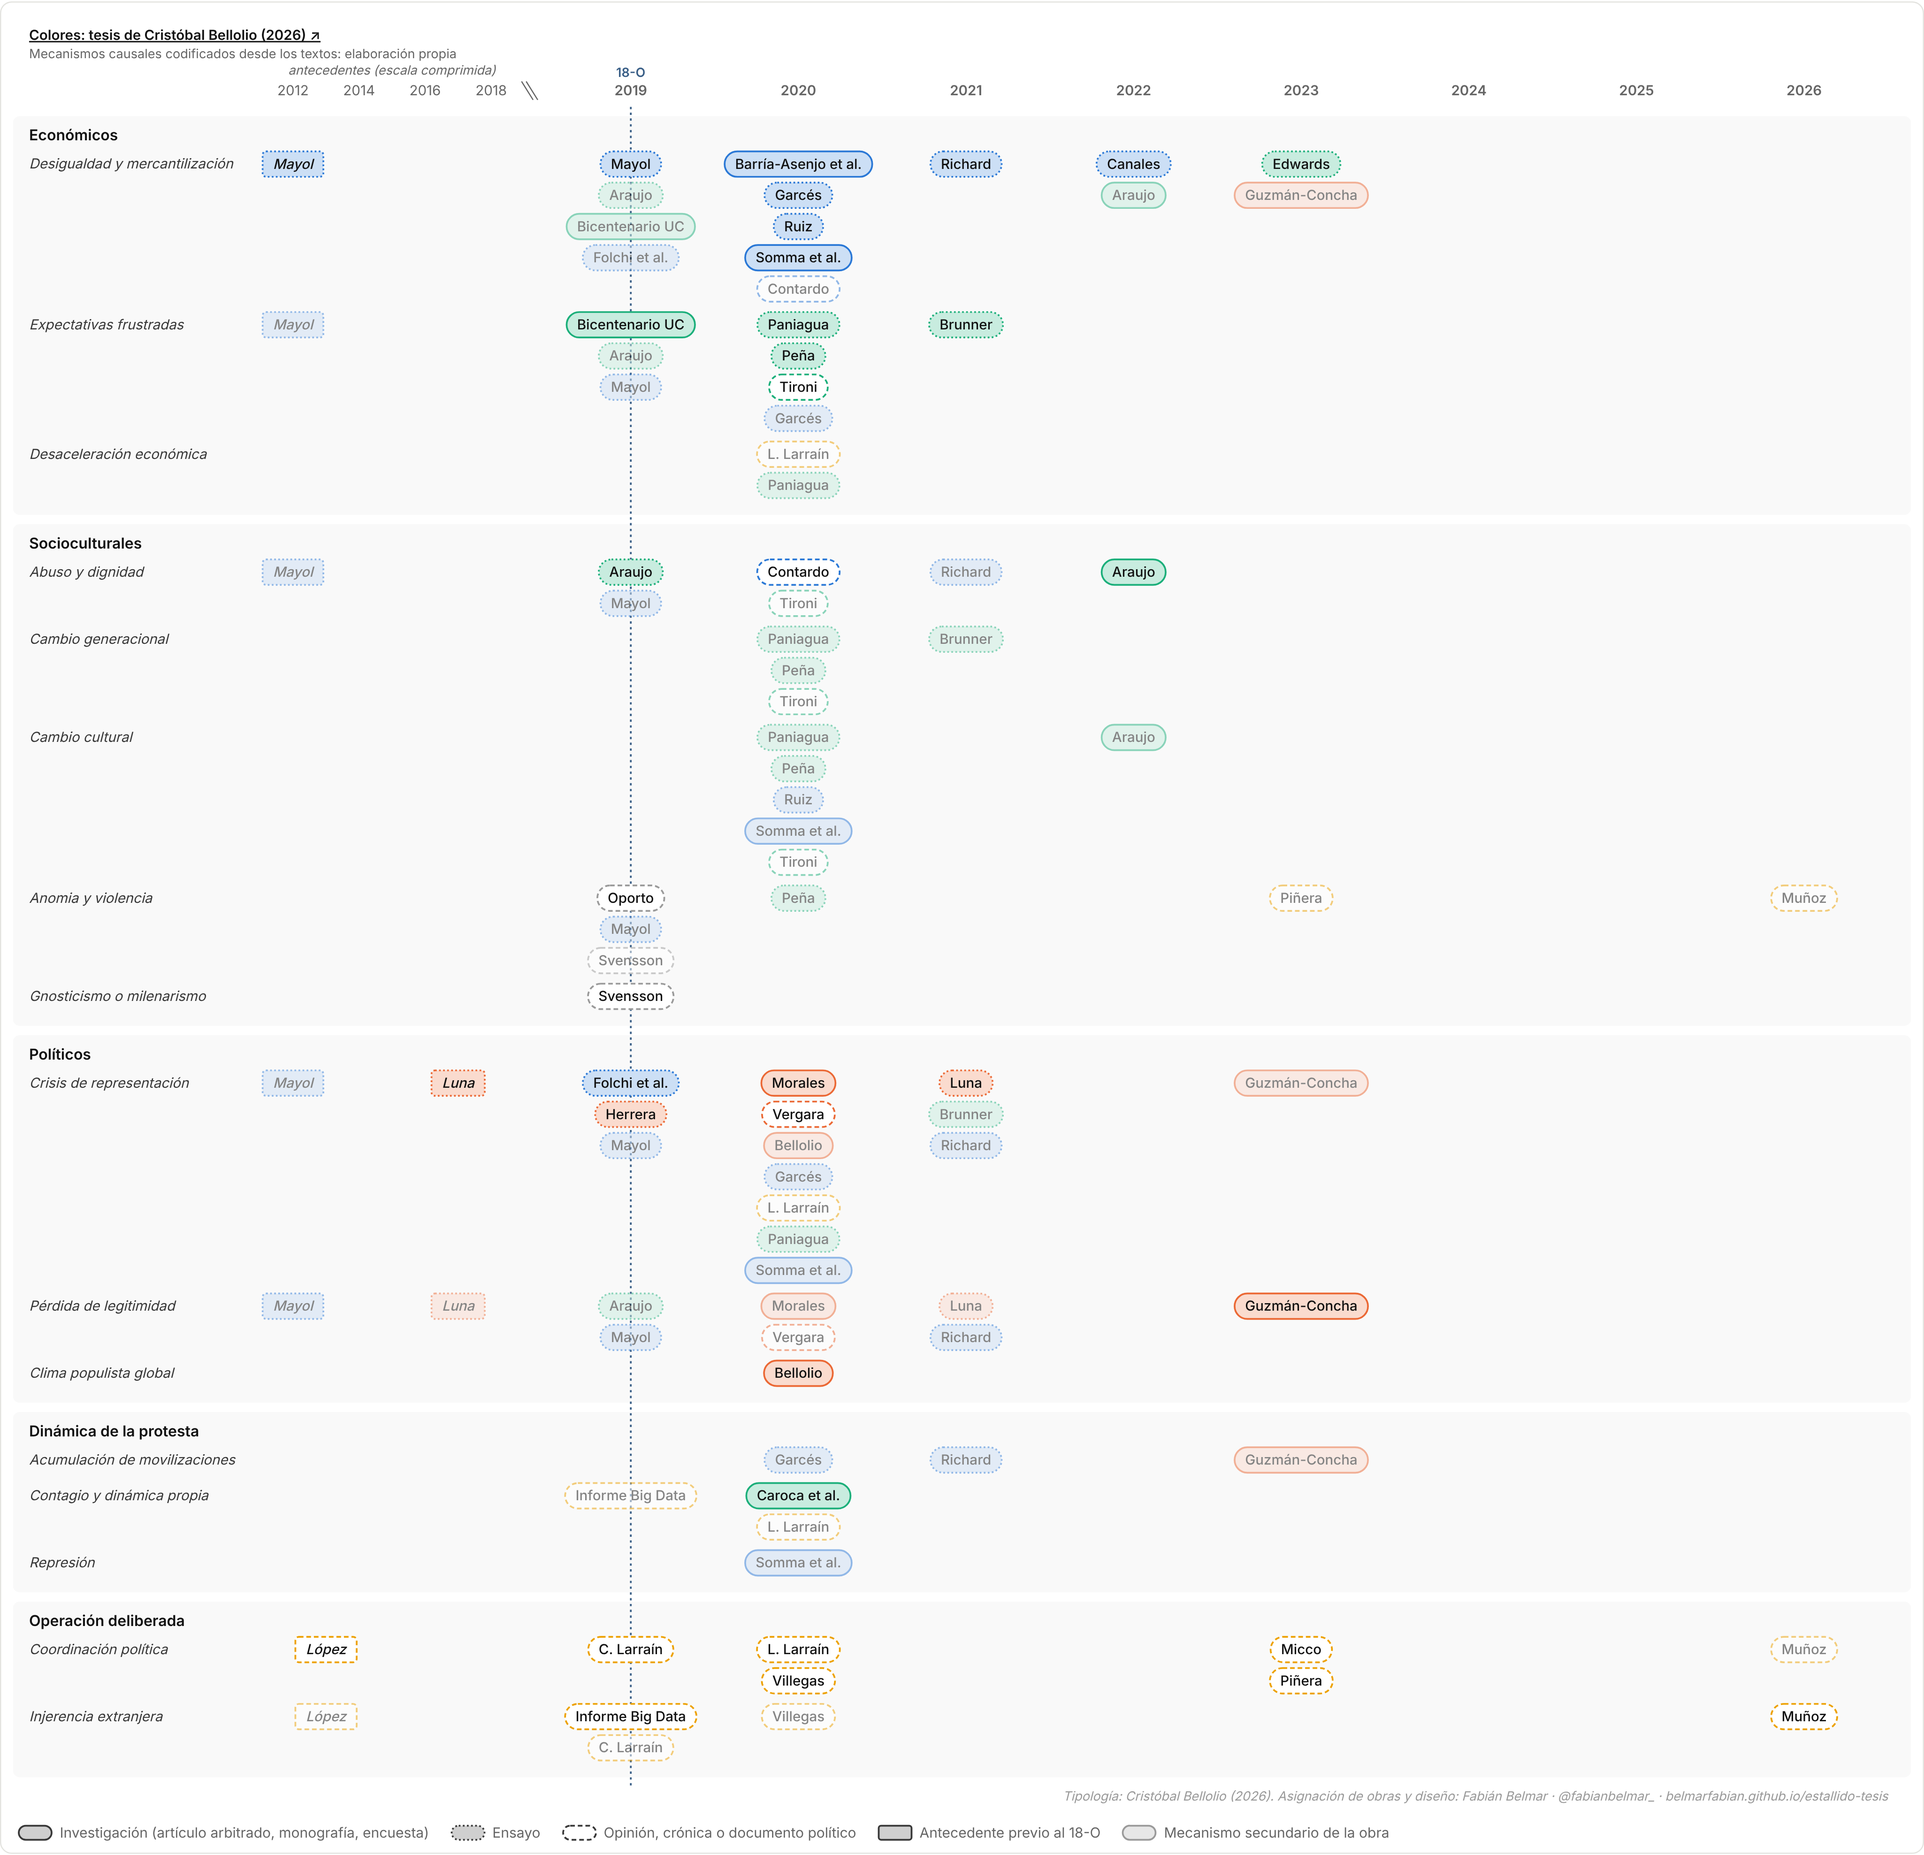
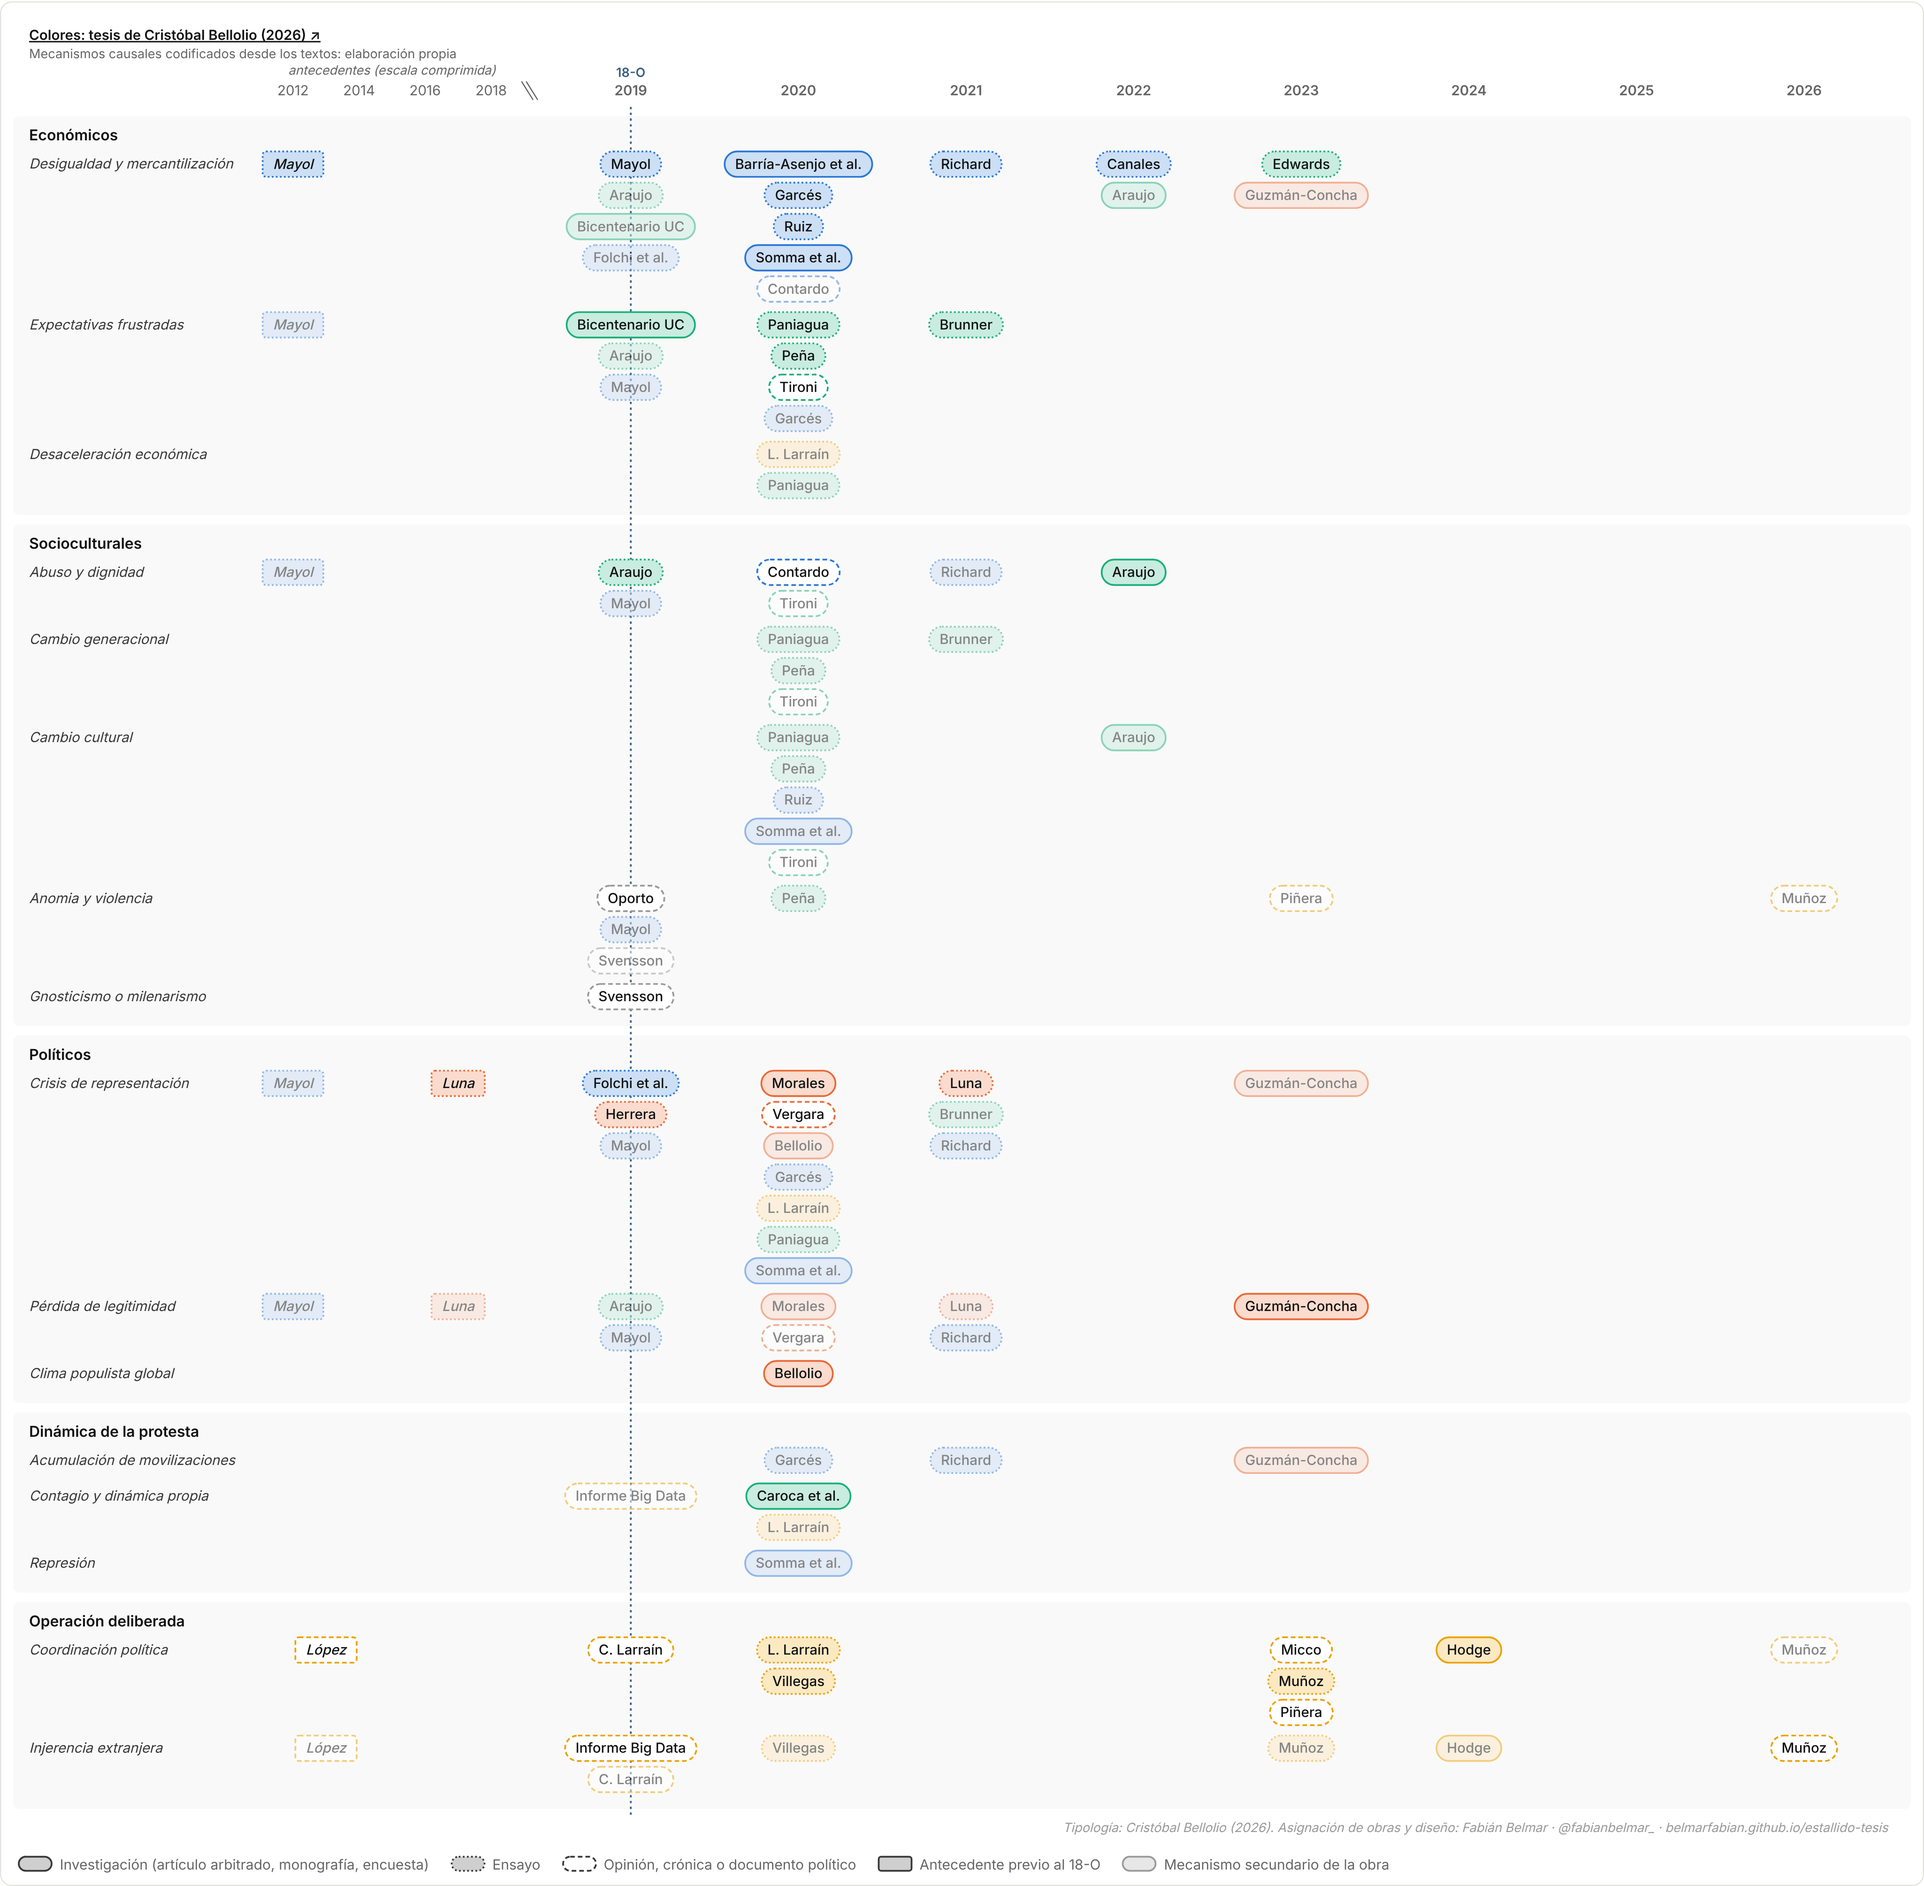
Tesis insurreccional: agrega Hodge (2024) y Muñoz (2023); libros de L. Larraín y Villegas como ensayo
Claude-Session: https://claude.ai/code/session_01AycMZX7PjrihgT7aE5Rdm5

diff --git a/estallido-tesis/index.html b/estallido-tesis/index.html
@@ -82,7 +82,7 @@ figcaption{font-family:"Source Serif 4",Georgia,serif;font-size:14px;color:var(-
 .tip .t1{font-weight:600}.tip .t2{color:var(--muted)}
 .mapwrap{position:relative;min-width:1100px}
 .side{position:absolute;top:0;bottom:0;pointer-events:none}
-.detail{position:absolute;left:0;right:0;pointer-events:auto;background:var(--bg);border:1px solid var(--border-strong);border-radius:8px;padding:12px 14px;font-size:13px;line-height:1.45;box-shadow:0 6px 24px rgba(0,0,0,.08);opacity:0;visibility:hidden;transition:opacity .15s,top .15s}
+.detail{position:absolute;left:0;right:0;overflow-wrap:anywhere;pointer-events:auto;background:var(--bg);border:1px solid var(--border-strong);border-radius:8px;padding:12px 14px;font-size:13px;line-height:1.45;box-shadow:0 6px 24px rgba(0,0,0,.08);opacity:0;visibility:hidden;transition:opacity .15s,top .15s}
 .detail.on{opacity:1;visibility:visible}
 .detail .ref{font-family:"Source Serif 4",Georgia,serif;font-size:14px;text-align:justify;hyphens:auto}
 .detail .meta{color:var(--muted);font-size:12px;margin-top:8px;text-align:justify;hyphens:auto}

diff --git a/estallido-tesis/app.js b/estallido-tesis/app.js
@@ -289,8 +289,15 @@
     var hideT = null;
     function place(n) {
       var k = svg.node().getBoundingClientRect().height / H;
-      var top = n.cy * k - 30, max = H * k - det.offsetHeight - 30;
-      det.style.top = Math.max(top0 * k, Math.min(top, max)) + "px";
+      var max = H * k - det.offsetHeight - 30, top;
+      if (n.cx > sx0 - 70 && n.cx < sx1 + 70) {
+        // la obra está bajo el panel: se muestra arriba o abajo de ella
+        top = n.cy * k + 18;
+        if (top > max) top = n.cy * k - 18 - det.offsetHeight;
+      } else {
+        top = Math.max(top0 * k, Math.min(n.cy * k - 30, max));
+      }
+      det.style.top = top + "px";
     }
     var top0 = top;
     links.on("mouseenter", function (evt, n) {

diff --git a/estallido-tesis/datos/build.py b/estallido-tesis/datos/build.py
@@ -285,7 +285,7 @@ ROWS = [
   "mecanismos": "M04;M08;M10;M13",
   "mecanismo_principal": "M10",
   "confianza_codificacion": "media",
-  "registro": "opinion",
+  "registro": "ensayo",
   "rol": "principal",
   "referencia": "Larraín Arroyo, L. (2020). El otro golpe: 18 de octubre de 2019 [prólogo de M. Cubillos].",
   "fuente_url": "https://www.pauta.cl/actualidad/2020/10/08/luis-larrain-crisis-social-le-podia-pasar-solo-a-un-gobierno-derecha.html",
@@ -413,7 +413,7 @@ ROWS = [
   "mecanismos": "M10;M11",
   "mecanismo_principal": "M10",
   "confianza_codificacion": "baja",
-  "registro": "opinion",
+  "registro": "ensayo",
   "rol": "principal",
   "referencia": "Villegas, F. (2020). Insurrección. Edición independiente.",
   "fuente_url": "https://www.goodreads.com/book/show/55819763-insurrecci-n",
@@ -578,6 +578,38 @@ ROWS = [
   "referencia": "Muñoz Riveros, S. (2026, julio). Exposición ante la comisión investigadora del 18-O, Cámara de Diputados. Reportada por Ex-Ante.",
   "fuente_url": "https://www.ex-ante.cl/el-estallido-no-fue-social-lo-que-expuso-sergio-munoz-riveros-ante-la-comision-investigadora-del-18-o/",
   "nota": "Sugerido en X por @Puduazul."
+ },
+ {
+  "id": "munoz2023",
+  "etiqueta": "Muñoz (2023)",
+  "autores": "Sergio Muñoz Riveros",
+  "anio": 2023,
+  "tesis": "Insurreccional",
+  "subcorriente": "Golpe no tradicional",
+  "mecanismos": "M10;M11",
+  "mecanismo_principal": "M10",
+  "confianza_codificacion": "media",
+  "registro": "ensayo",
+  "rol": "principal",
+  "referencia": "Muñoz Riveros, S. (2023). La democracia bajo asedio. Presentado en julio de 2023.",
+  "fuente_url": "https://www.ex-ante.cl/?p=160185",
+  "nota": "Sostiene que la revuelta requirió planificación, coordinación y recursos. Editorial no verificada. Comentarios al hilo de Bellolio."
+ },
+{
+  "id": "hodge2024",
+  "etiqueta": "Hodge (2024)",
+  "autores": "Eduardo Hodge Dupré",
+  "anio": 2024,
+  "tesis": "Insurreccional",
+  "subcorriente": "Guerra híbrida",
+  "mecanismos": "M10;M11",
+  "mecanismo_principal": "M10",
+  "confianza_codificacion": "media",
+  "registro": "investigacion",
+  "rol": "principal",
+  "referencia": "Hodge Dupré, E. (2024). Falsas dicotomías de la guerra durante el estallido social chileno. Revista Científica General José María Córdova, 22(48), 1127–1150. https://doi.org/10.21830/19006586.1360",
+  "fuente_url": "https://doi.org/10.21830/19006586.1360",
+  "nota": "Artículo en revista arbitrada. Sostiene que el estallido no fue espontáneo y lo lee como guerra híbrida; trata la injerencia extranjera como no descartable."
  }
 ]
 p = pathlib.Path(__file__).parent
